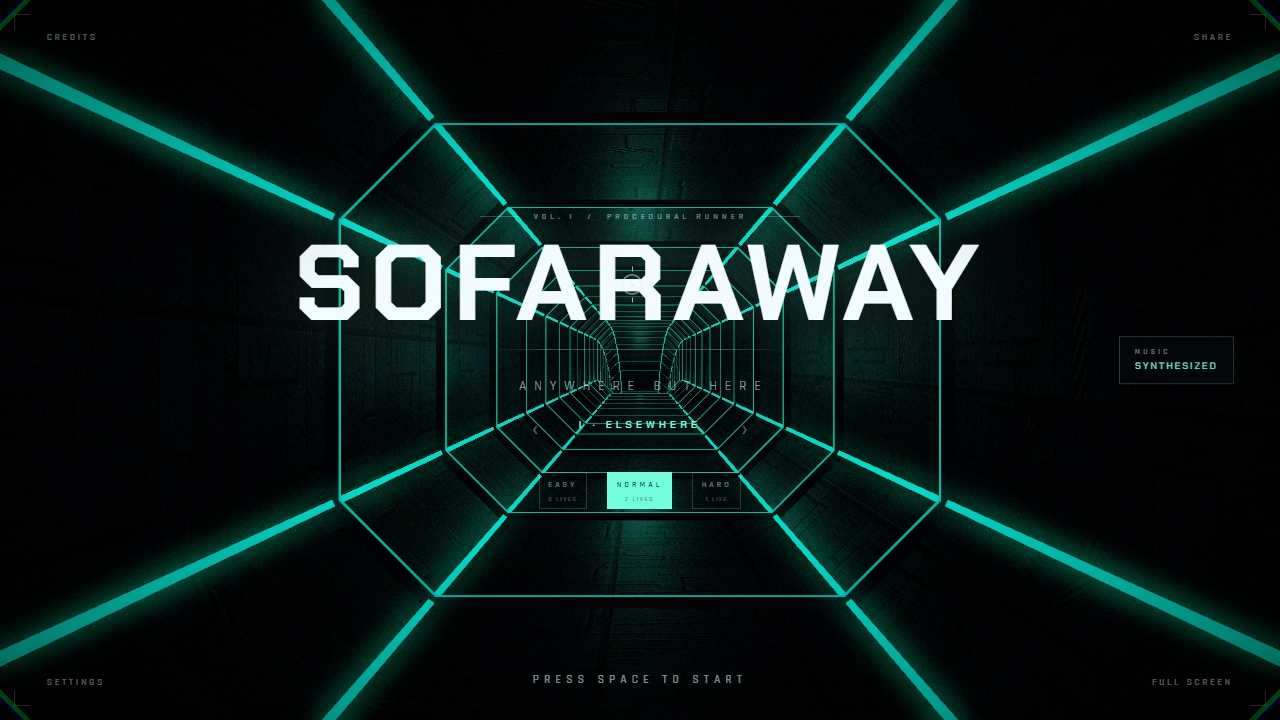
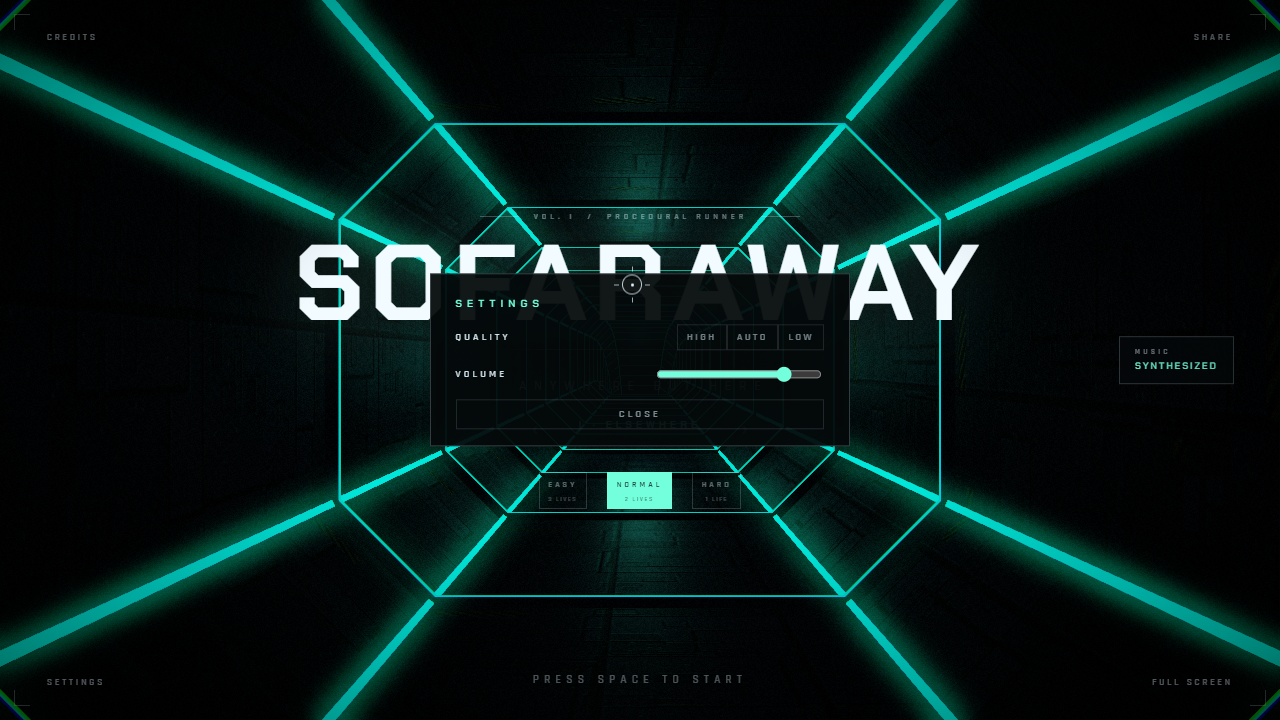
feat: settings panel, and no boost on touch
- the SETTINGS button opens a panel with quality (high / auto / low) and a
  volume slider. Quality is remembered in localStorage, loaded by quality.js
  ahead of the device heuristic, and applied by reloading with ?q= — the tier is
  baked into render targets at construction, so it cannot change live
- boost is disabled outright on coarse pointers. On a phone the whole screen is
  the steering surface, so there is no unambiguous place to put a boost button,
  and dropping it makes the judgement purely positional
- ?panel=1 opens the panel for screenshots

diff --git a/js/main.js b/js/main.js
@@ -1,14 +1,16 @@
 import * as THREE from 'three';
-import { buildTextures } from './textures.js?v=2026-11-10q';
-import { Tunnel, TUNNEL } from './tunnel.js?v=2026-11-10q';
-import { buildPath } from './path.js?v=2026-11-10q';
-import { Gates, laneOf, lanePoint } from './gates.js?v=2026-11-10q';
-import { PostFX } from './post.js?v=2026-11-10q';
-import { AudioEngine } from './audio.js?v=2026-11-10q';
-import { chartFor, DIFFICULTY, SONG_BEATS } from './chart.js?v=2026-11-10q';
-import { VOL, VOLUMES } from './volumes.js?v=2026-11-10q';
-import { Recorder } from './recorder.js?v=2026-11-10q';
-import { QUALITY, TIER } from './quality.js?v=2026-11-10q';
+import { buildTextures } from './textures.js?v=2026-11-10r';
+import { Tunnel, TUNNEL } from './tunnel.js?v=2026-11-10r';
+import { buildPath } from './path.js?v=2026-11-10r';
+import { Gates, laneOf, lanePoint } from './gates.js?v=2026-11-10r';
+import { PostFX } from './post.js?v=2026-11-10r';
+import { AudioEngine } from './audio.js?v=2026-11-10r';
+import { chartFor, DIFFICULTY, SONG_BEATS } from './chart.js?v=2026-11-10r';
+import { VOL, VOLUMES } from './volumes.js?v=2026-11-10r';
+import { Recorder } from './recorder.js?v=2026-11-10r';
+import { QUALITY, TIER } from './quality.js?v=2026-11-10r';
+
+const TOUCH = window.matchMedia('(pointer: coarse)').matches;
 
 /* ------------------------------------------------------------------ *
  *  Boot flags
@@ -836,6 +838,23 @@ window.addEventListener('resize', resize);
  *  UI wiring
  * ------------------------------------------------------------------ */
 document.getElementById('ui').addEventListener('click', (e) => {
+  const qBtn = e.target.closest('[data-q]');
+  if (qBtn) {
+    const v = qBtn.dataset.q;
+    try { localStorage.setItem('sofaraway.quality', v); } catch (err) { /* ignore */ }
+    const url = new URL(location.href);
+    if (v === 'auto') url.searchParams.delete('q'); else url.searchParams.set('q', v);
+    location.href = url.toString();
+    return;
+  }
+  if (e.target.closest('#panel-close') || e.target.closest('#panel')) {
+    if (e.target.closest('#panel-close')) $('panel').hidden = true;
+    return;
+  }
+  if (e.target.closest('[data-act="settings"]')) {
+    $('panel').hidden = !$('panel').hidden;
+    return;
+  }
   const volBtn = e.target.closest('[data-vol-step]');
   if (volBtn) {
     stepVolume(Number(volBtn.dataset.volStep));
@@ -893,6 +912,17 @@ function stepVolume(dir) {
   const next = ready[(i + dir + ready.length) % ready.length];
   if (next && next.id !== VOL.id) location.search = '?vol=' + next.id;
 }
+
+function syncQuality() {
+  let stored = 'auto';
+  try { stored = localStorage.getItem('sofaraway.quality') || 'auto'; } catch (e) { /* ignore */ }
+  const shown = stored === 'auto' ? (TIER === 'low' ? 'low' : TIER === 'mobile' ? 'auto' : 'high') : stored;
+  for (const b of document.querySelectorAll('[data-q]')) {
+    b.classList.toggle('on', b.dataset.q === shown);
+  }
+}
+syncQuality();
+if (params.get('panel') === '1') $('panel').hidden = false;
 
 function syncVolume() {
   const el = $('vol-name');

diff --git a/css/style.css b/css/style.css
@@ -520,3 +520,30 @@ html,body{
 
 
 
+
+/* ================================================================== *
+   SETTINGS PANEL
+ * ================================================================== */
+.panel{
+  position:absolute; left:50%; top:50%; transform:translate(-50%,-50%);
+  min-width:min(78vw,420px); padding:2.2em 2.4em 1.6em;
+  background:rgba(4,8,10,.94); border:1px solid rgba(220,238,248,.22);
+  display:flex; flex-direction:column; gap:1.4em; pointer-events:auto;
+  font-size:clamp(9px,.8vw,12px); letter-spacing:.3em;
+}
+.panel-head{ font-family:var(--display); font-weight:600; color:var(--accent); letter-spacing:.5em; }
+.panel-row{ display:flex; align-items:center; justify-content:space-between; gap:2em; }
+.seg{ display:flex; }
+.seg button{
+  appearance:none; background:none; border:1px solid rgba(220,238,248,.22);
+  color:inherit; font:inherit; letter-spacing:.24em; padding:.5em .9em; opacity:.55;
+  cursor:pointer;
+}
+.seg button:hover{ opacity:1; }
+.seg button.on{ opacity:1; border-color:var(--accent); background:rgba(116,255,220,.12); }
+#set-volume{ width:45%; accent-color:#74ffdc; }
+.panel-close{
+  appearance:none; background:none; border:1px solid rgba(220,238,248,.22);
+  color:inherit; font:inherit; letter-spacing:.3em; padding:.7em 0; cursor:pointer; opacity:.6;
+}
+.panel-close:hover{ opacity:1; border-color:var(--accent); }

diff --git a/index.html b/index.html
@@ -66,6 +66,23 @@
       <button class="btn tiny" data-act="fullscreen"><span>FULL SCREEN</span></button>
     </div>
 
+    <div class="panel" id="panel" hidden>
+      <div class="panel-head">SETTINGS</div>
+      <div class="panel-row">
+        <span>QUALITY</span>
+        <div class="seg" id="seg-quality">
+          <button data-q="high">HIGH</button>
+          <button data-q="auto">AUTO</button>
+          <button data-q="low">LOW</button>
+        </div>
+      </div>
+      <div class="panel-row">
+        <span>VOLUME</span>
+        <input id="set-volume" type="range" min="0" max="100" value="80">
+      </div>
+      <button class="panel-close" id="panel-close">CLOSE</button>
+    </div>
+
     <div class="musicbadge">
       <span class="mb-k">MUSIC</span><span class="mb-v">SYNTHESIZED</span>
     </div>

diff --git a/js/quality.js b/js/quality.js
@@ -15,7 +15,9 @@ const params = new URLSearchParams(location.search);
 const coarse = typeof matchMedia !== 'undefined'
   && window.matchMedia('(pointer: coarse)').matches;
 const narrow = window.innerWidth < 860;
-const forced = params.get('q');
+let stored = null;
+try { stored = localStorage.getItem('sofaraway.quality'); } catch (e) { /* private mode */ }
+const forced = params.get('q') || stored || 'auto';
 
 const tier = (forced === 'low' || forced === 'mobile' || forced === 'high')
   ? forced

diff --git a/js/gates.js b/js/gates.js
@@ -1,6 +1,6 @@
 import * as THREE from 'three';
-import { TUNNEL } from './tunnel.js?v=2026-11-10q';
-import { VOL } from './volumes.js?v=2026-11-10q';
+import { TUNNEL } from './tunnel.js?v=2026-11-10r';
+import { VOL } from './volumes.js?v=2026-11-10r';
 
 /* ------------------------------------------------------------------ *
  *  A bulkhead is not a sheet with a hole in it — it is a set of glass

diff --git a/js/chart.js b/js/chart.js
@@ -9,7 +9,7 @@
  *      0 E   1 NE   2 N   3 NW   4 W   5 SW   6 S   7 SE
  * ------------------------------------------------------------------ */
 
-import { VOL } from './volumes.js?v=2026-11-10q';
+import { VOL } from './volumes.js?v=2026-11-10r';
 
 export const SONG_BEATS = VOL.beats;
 export const BPM = VOL.bpm;

diff --git a/js/audio.js b/js/audio.js
@@ -6,7 +6,7 @@
  *  from the audio clock so the visuals lock to the beat.
  * ------------------------------------------------------------------ */
 
-import { VOL } from './volumes.js?v=2026-11-10q';
+import { VOL } from './volumes.js?v=2026-11-10r';
 
 const MOOD = VOL.music;
 

diff --git a/js/post.js b/js/post.js
@@ -1,4 +1,4 @@
-import { QUALITY } from './quality.js?v=2026-11-10q';
+import { QUALITY } from './quality.js?v=2026-11-10r';
 import * as THREE from 'three';
 
 /* ------------------------------------------------------------------ *
